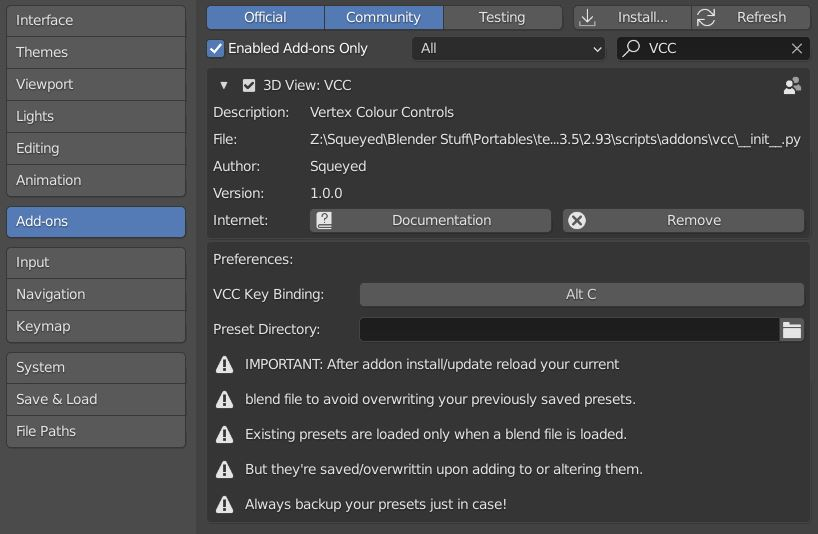
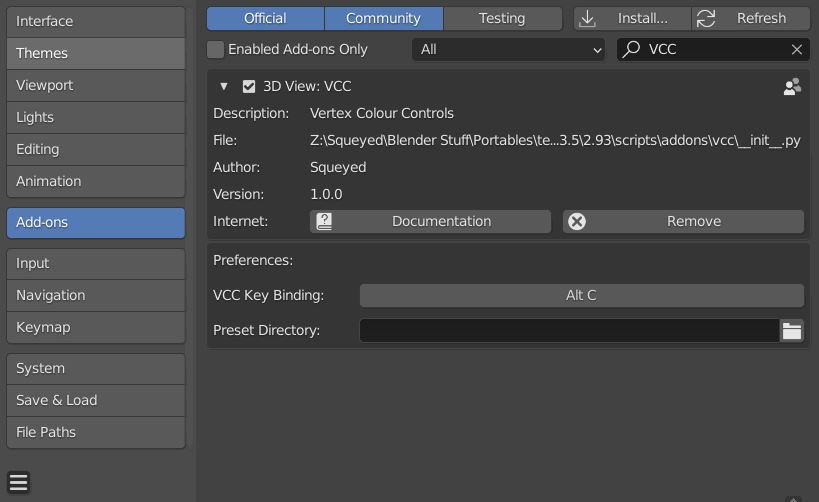
image and text corrections

diff --git a/Presets-Explained.md b/Presets-Explained.md
@@ -14,9 +14,9 @@ This explanation will cover just colour presets as they are functionally interch
 
 Presets are all stored in one JSON file, they are independant from your individual blend files so any changes made to them in one project will persist across all projects. By default the preset file will be stored in the root folder of your Blender installation, I would strongly advise you to set a custom location in the add-on preferences, somewhere outside of your Blender installation to make it easier to back it up and to avoid overwriting it.
 
-## **IMPORTANT**
+## **Suddenly Empty Presets?**
 
-This add-on checks in either the default or your custom location for your preset file each time a scene is loaded. If it's not detected it will create a new one. If you disable/uninstall this add-on followed by re-enabling/reinstalling/updating this add-on without re-loading your blend file, you risk overwriting your previously created preset file. This occurs because the add-on has missed it's chance to find the file when activated in an already loaded scene, then when you make any change to the new blank presets it will overwrite the old file. Please be careful to occassionally backup your presets and always re-load your scene if you've done any of the previously mentioned steps before making changes to your presets.
+If your presets are suddenly all gone then you may need to check the add-on preferences to make sure the correct directory has been set, however this can also occur when the add-on is disabled and then re-enabled or updated, this is because VCC checks for your save files when the Blend file is loaded. You can fix this by either reloading your Blend file, adding a new preset to the empty list will also bring them back. But just in case, as with all of your work I recommend you backup your preset files often.
 
 # The Preset Popup
 

diff --git a/Installation-&-Upgrading.md b/Installation-&-Upgrading.md
@@ -15,8 +15,6 @@ At this point you can configure the add-on by clicking the arrow next to the che
 
 The shortcut key to bring up the VCC panel in the 3D View can be changed here, but most importantly changing the "Preset Directory" to a custom location of your own choosing can be done here. By default your presets will be saved in a JSON file in the root directory of your Blender installation, this can be problematic when it comes to upgrading Blender as you may very easily forget where they were stored.
 
-I also highly recommend backing up your preset file generally, but especially if you are upgrading or reinstalling VCC. The presets are saved when any changes are made to them (including editing, deleting, moving or favouriting etc), this process overwrites the entire preset file. The presets are only loaded when a Blend file is loaded, so if you were to update this add-on without re-opening your Blend file and then change a value in the presets you would lose your old presets. So to reiterate, when upgrading or re-installing CLOSE AND RE-OPEN YOUR BLEND FILE to make sure not to overwrite your preset file.
-
 ***
 
 [<< BACK](README.md) | [CONTENTS](Contents.md) | [NEXT >>](Quick-Start.md)

diff --git a/README.md b/README.md
@@ -4,6 +4,8 @@
 
 Welcome to the Vertex Colour Controls documentation!
 
+If you have decided to purchase this add-on you have my sincere thanks, I hope you enjoy using this add-on!
+
 Here you will find all of the information you will require to install and use the Vertex Colour Controls Blender addon.
 
 ![](https://github.com/Squeyed-Addons/VCC-Docs/blob/main/Media/Images/VCC%20Title%20Image.png?raw=true)
